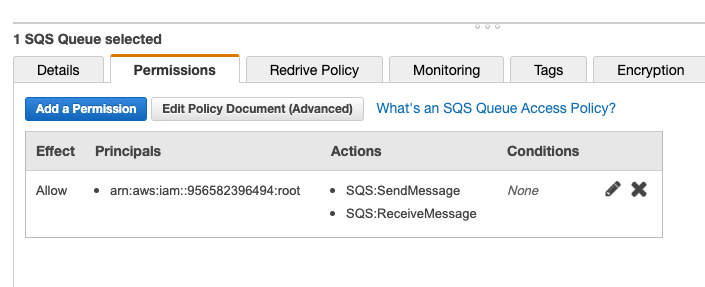
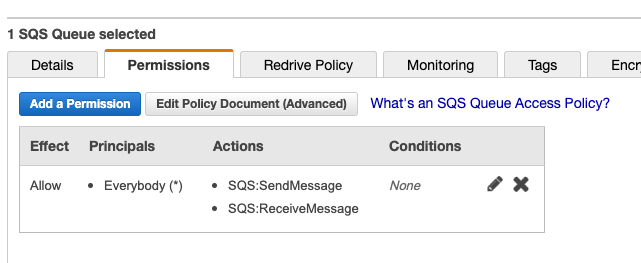
more instructions for enterprise

diff --git a/docs/enterprise/server/config.md b/docs/enterprise/server/config.md
@@ -3,7 +3,7 @@ title: Configuring W&B Enterprise Server
 sidebar_label: Configuration
 ---
 
-Your W&B Enterprise Server comes up ready-to-use on boot. However several advanced configuration options are available, and accessible from the `/vm-settings` page on your server once it's up and running.
+Your W&B Enterprise Server comes up ready-to-use on boot. However, several advanced configuration options are available, at the `/vm-settings` page on your server once it's up and running.
 
 ## Authentication
 
@@ -23,31 +23,50 @@ Save the Client ID and domain from your Auth0 app.
 
 ![Auth0 Settings](/img/auth0-2.png)
 
+Then, navigate to the W&B settings page at `http(s)://YOUR-W&B-SERVER-HOST/vm-settings`. Enable the "Customize Authentication with Auth0" option, and fill in the Client ID and domain from your Auth0 app.
+
 ![Enterprise authentication settings](/img/enterprise-auth.png)
 
-Then, navigate to the W&B settings page at `http(s)://YOUR-W&B-SERVER-HOST/vm-settings`. Enable the "Customize Authentication with Auth0" option, and fill in the Client ID and domain from your Auth0 app. The press "Update settings and restart W&B".
+Finally, press "Update settings and restart W&B".
 
 ## File Storage
 
-By default, a W&B Enterprise Server saves files to a local data disk with a capacity that you set when you provision your instance.
-
-To support limitless file storage, you may configure your server to use an external cloud file storage bucket with an S3-compatible API.
+By default, a W&B Enterprise Server saves files to a local data disk with a capacity that you set when you provision your instance. To support limitless file storage, you may configure your server to use an external cloud file storage bucket with an S3-compatible API.
 
 ### Amazon Web Services
 
-#### Set up SQS Queue, S3 Bucket, and Bucket Notifications
+To use an AWS S3 bucket as the file storage backend for W&B, you'll need to create a bucket, along with an SQS queue configured to receive object creation notifications from that bucket. Your instance will need permissions to read from this queue.
 
-First, create an SQS Standard Queue. Make sure to add a permission for Amazon S3 to post to that queue, and EC2 to read from the queue.
+#### Create an SQS Queue
+
+First, create an SQS Standard Queue. Add a permission for all principals for the `SendMessage` and `ReceiveMessage` actions. (If you like you can further lock this down using an advancd policy document.)
 
 ![Enterprise file storage settings](/img/sqs-perms.png)
+
+#### Create an S3 Bucket and Bucket Notifications
 
 Then, create an S3 bucket. Under the bucket properties page in the console, in the "Events" section of "Advanced Settings", click "Add notification", and configure all object creation events to be sent to the SQS Queue you configured earlier.
 
 ![Enterprise file storage settings](/img/s3-notification.png)
 
-Then, navigate to the W&B settings page at `http(s)://YOUR-W&B-SERVER-HOST/vm-settings`. Enable the "Use an external file storage backend" option, and fill in the s3 bucket, region, and SQS queue in the following format:
+Enable CORS access: your CORS configuration should look like the following:
 
-* **File Storage URL**: `s3:///<bucket-name>`
+```xml
+<?xml version="1.0" encoding="UTF-8"?>
+<CORSConfiguration xmlns="http://s3.amazonaws.com/doc/2006-03-01/">
+<CORSRule>
+    <AllowedOrigin>http://YOUR-W&B-SERVER-IP</AllowedOrigin>
+    <AllowedMethod>GET</AllowedMethod>
+    <AllowedHeader>*</AllowedHeader>
+</CORSRule>
+</CORSConfiguration>
+```
+
+#### Configure W&B Server
+
+Finally, navigate to the W&B settings page at `http(s)://YOUR-W&B-SERVER-HOST/vm-settings`. Enable the "Use an external file storage backend" option, and fill in the s3 bucket, region, and SQS queue in the following format:
+
+* **File Storage Bucket**: `s3://<bucket-name>`
 * **File Storage Region**: `<region>`
 * **Notification Subscription**: `sqs://<queue-name>`
 
@@ -57,6 +76,40 @@ Press "update settings and restart W&B" to apply the new settings.
 
 ### Google Cloud Platform
 
-#### Set up Pubsub Topic and Subscription, Storage Bucket, and Bucket Notifications
+To use a GCP Storage bucket as a file storage backend for W&B, you'll need to create a bucket, along with a pubsub topic and subscription configured to receive object creation messages from that bucket.
 
-For AWS, your standard endpoint will be `http://s3.YOUR-REGION.amazonaws.com`. For GCP, it will be `https://storage.googleapis.com`. You can configure S3-compatible keys for Google Cloud Storage by [following the instructions here](https://cloud.google.com/storage/docs/migrating#keys).
+#### Create Pubsub Topic and Subscription
+
+Navigate to Pub/Sub > Topics in the GCP Console, and click "Create topic". Choose a name and create a topic.
+
+Then click "Create subscription" in the subscriptions table at the bottom of the page. Choose a name, and make sure Delivery Type is set to "Pull". Click "Create".
+
+#### Create Storage Bucket
+
+Navigate to Storage > Browser in the GCP Console, and click "Create bucket". Make sure to choose "Standard" storage class.
+
+#### Create Pubsub Notification
+
+Creating a notification stream from the Storage Bucket to the Pubsub Topic can unfortunately only be done in the console. Make sure you have `gsutil` installed, and logged into the correct GCP Project, then run the following:
+
+```sh
+gcloud pubsub topics list  # list names of topics for reference
+gsutil ls                  # list names of buckets for reference
+
+# create bucket notification
+gsutil notification create -t <TOPIC-NAME> -f json gs://<BUCKET-NAME>
+```
+
+[Further reference is available on the Cloud Storage website.](https://cloud.google.com/storage/docs/reporting-changes)
+
+#### Configure W&B Server
+
+Finally, navigate to the W&B settings page at `http(s)://YOUR-W&B-SERVER-HOST/vm-settings`. Enable the "Use an external file storage backend" option, and fill in the s3 bucket, region, and SQS queue in the following format:
+
+* **File Storage Bucket**: `gs://<bucket-name>`
+* **File Storage Region**: blank
+* **Notification Subscription**: `pubsub:/<project-name>/<topic-name>/<subscription-name>`
+
+![AWS file storage settings](/img/gcloud-filestore.png)
+
+Press "update settings and restart W&B" to apply the new settings.

diff --git a/docs/enterprise/server/setup.md b/docs/enterprise/server/setup.md
@@ -16,14 +16,13 @@ Go to EC2 > Images > AMIs in the AWS Console, select "Private images" in the sea
 * **Choose Instance Type**: Make sure to select a `m5.2xlarge` instance or larger. W&B requires at least 4 cores and 16GB of memory.
 * **Configure Instance**: If you plan to use a cloud file backend (this is optional), make sure your instance has an IAM role that allows it to access S3 and subscribe to SQS.
 * **Add Storage**: If you plan on using the instance disk for file storage, be sure to provision the EBS disk with enough storage. The default is 300GB.
-* **Add Tags**: Name your instance if you like.
-* **Configure Security Group**: Ensure that port 80 on your instance is exposed to any machine from which you want to run machine learning jobs, or from which you want to access the W&B web interface.
+* **Configure Security Group**: Ensure that port 80 on your instance is accessible to any machine from which you want to run machine learning jobs, or to any IP range from which you plan to use the W&B web interface.
 
 After launching your instance, wait for it to boot. Your instance will spin up and be accessible at port 80 at its public IP.
 
-Your instance is usable from boot, but for advanced options, [you can now proceed to configuring your instance.](/enterprise/server/config)
+Your instance is usable from boot, but for advanced options, [you may now proceed to configuring your instance.](/enterprise/server/config)
 
-### Configuring DNS and SSL
+### Configuring instance availability
 
 By default, your Enterprise Server serves the web interface and API on port 80 via unencrypted HTTP.
 
@@ -31,7 +30,33 @@ To add SSL, put your instance behind an Amazon Load Balancer and add a certifica
 
 To serve your instance from a hostname, configure your DNS nameservers to point towards the instance IP or Amazon Load Balancer.
 
+If you are not serving your instance from a hostname, you should associate an Amazon Elastic IP with the machine so it remains accessible at a stable IP address.
+
 ## Google Cloud Platform
+
+Before you begin, make sure you have access to our Compute Image.
+
+### Launch the Instance
+
+Go to Compute Engine > Images in the GCP console, and find the W&B image. Click "Create Instance".
+
+* **Machine Type**: Make sure to select an `n2-standard-4` instance or larger. W&B requires at least 4 cores and 16GB of memory.
+* **Identity and API Access**: If you plan on using a cloud file backend, be sure your instance service account has access to Google Storage and Pubsub.
+* **Firewall**: Enable "Allow HTTP traffic".
+
+After creating your instance, wait for it to boot. It will spin up and be accessible at port 80 at its public IP.
+
+Your instance is usable from boot, but for advanced options, [you may now proceed to configuring your instance.](/enterprise/server/config)
+
+### Configuring instance availability
+
+By default, your Enterprise Server serves the web interface and API on port 80 via unencrypted HTTP.
+
+To add SSL, put your instance behind a Load Balancer and add a certificate using the Google console.
+
+To serve your instance from a hostname, configure your DNS nameservers to point towards the instance IP or Google Load Balancer.
+
+If you are not serving your instance from a hostname, you should associate an Elastic IP with the machine so it remains accessible at a stable IP address.
 
 ## Microsoft Azure
 
